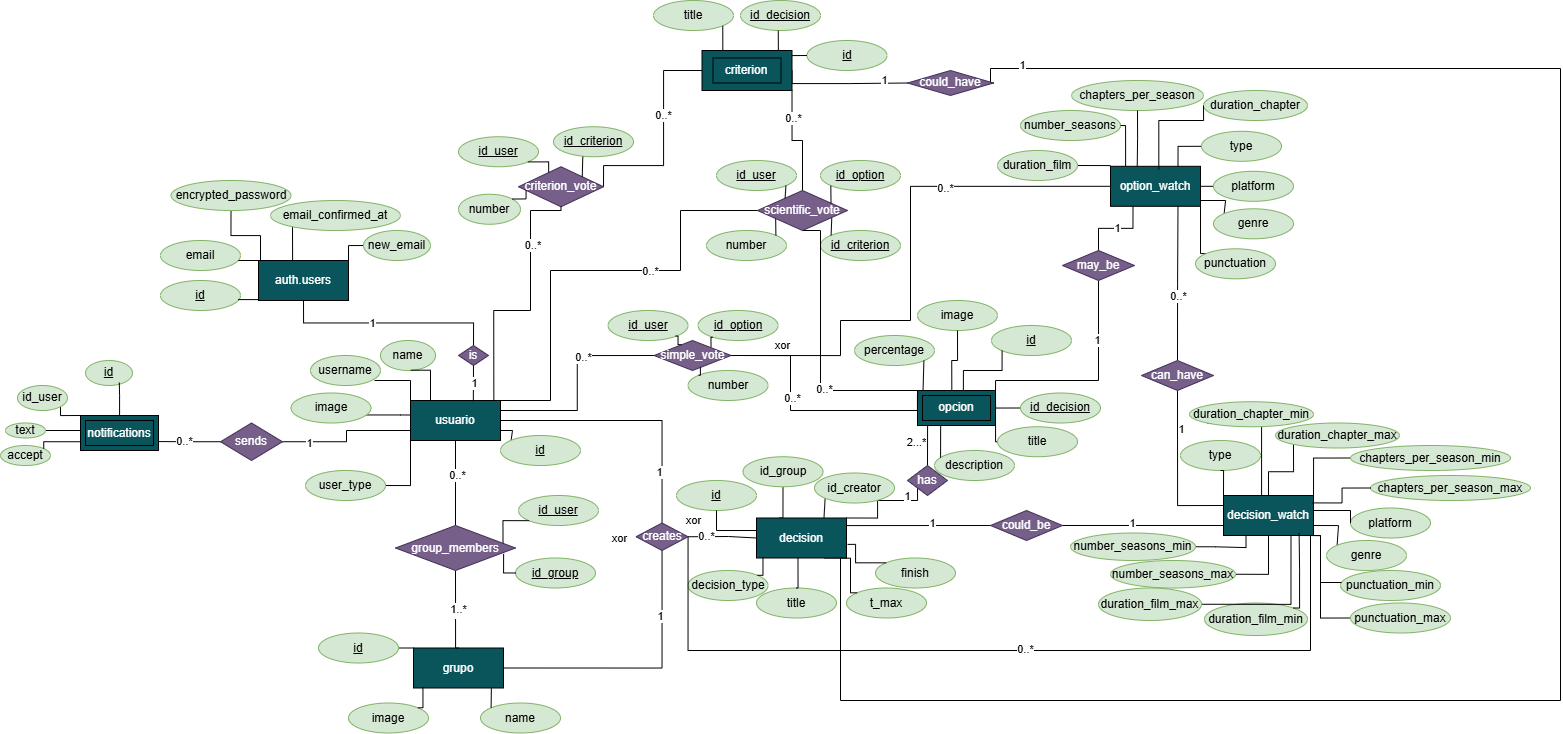
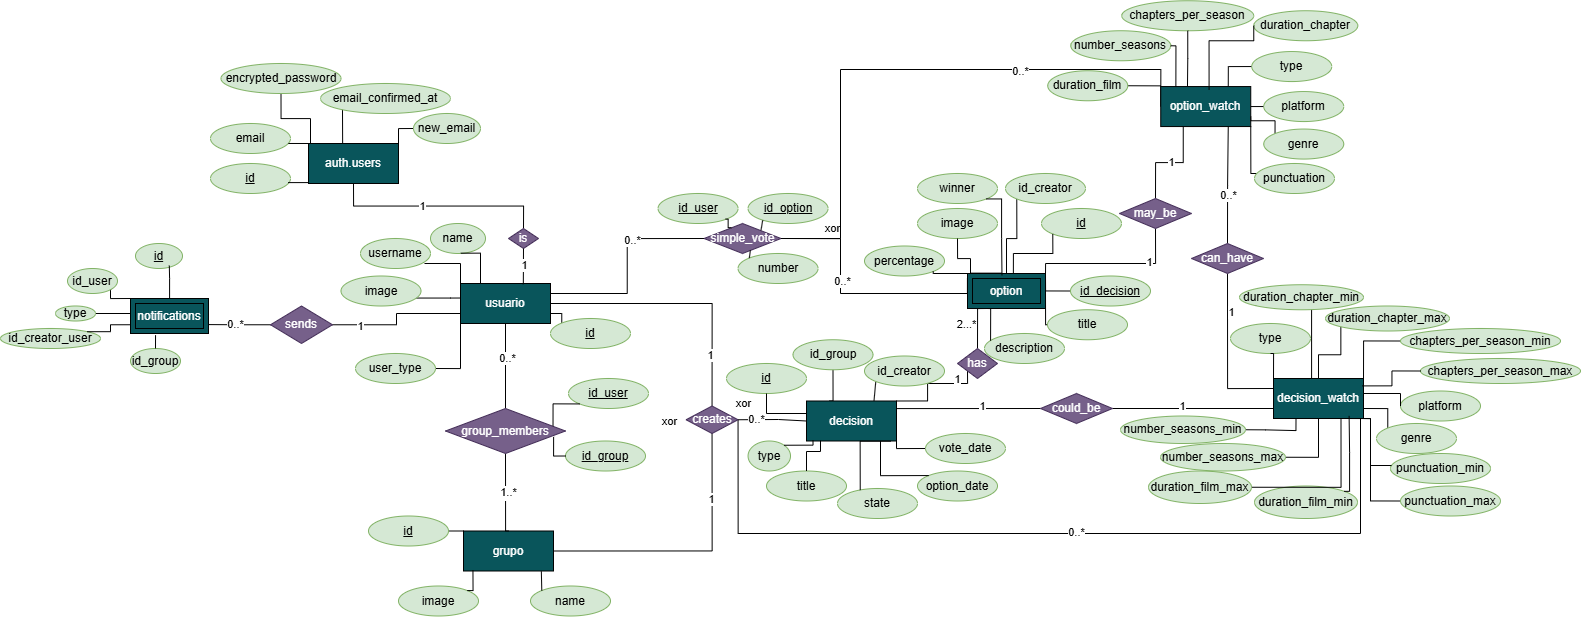
hasta diagrama de base de datos bien

diff --git a/capitulos/06_Diseno.tex b/capitulos/06_Diseno.tex
@@ -2,6 +2,7 @@
 
 \section{Arquitectura del sistema}
 
+\begin{comment}
 El proyecto no se basa en una única arquitectura tal y como podemos apreciar en la Figura~\ref{fig:diagramaarq}, sino en la combinación de varios estilos arquitectónicos. Como base, sigue una arquitectura cliente-servidor, donde el cliente está desarrollado en \textit{Flutter} y el servidor en \textit{Supabase}.  \\
 
 No obstante, \textit{Supabase} no se comporta como un servidor tradicional, sino que sigue un enfoque Backend as a Service (BaaS), proporcionando de forma integrada servicios como autenticación, base de datos, comunicación en tiempo real y ejecución de lógica mediante Edge Functions. \\
@@ -11,6 +12,17 @@ Asimismo, el uso de Edge Functions implica adoptar una arquitectura serverless, 
 Por otra parte, en el lado del cliente, se sigue una arquitectura a capas, disponiendo de capas de presentación, lógica y acceso a datos. \\
 
 Finalmente, dada la necesidad de actualizar en tiempo real la información relativa a grupos y votaciones, el sistema incorpora una arquitectura orientada a eventos, en la que los clientes reaccionan a los cambios producidos en el backend. \\
+\end{comment}
+
+El proyecto no se basa en un único estilo arquitectónico, como se observa en la Figura~\ref{fig:diagramaarq}, sino en la combinación de varios enfoques complementarios. A nivel general, sigue una arquitectura cliente-servidor, donde la aplicación desarrollada en \textit{Flutter} actúa como cliente y la plataforma \textit{Supabase} proporciona los servicios de backend. \\
+
+Aunque Supabase se percibe como una única plataforma desde el punto de vista del desarrollador, internamente el backend adopta un enfoque Backend as a Service (BaaS), delegando la gestión de distintos servicios especializados. Entre ellos se encuentran PostgreSQL para la persistencia de datos, Auth para la autenticación y gestión de usuarios, Storage para el almacenamiento de imágenes, Realtime para la sincronización de información en tiempo real y Edge Functions para la ejecución de lógica personalizada. \\
+
+Las Edge Functions permiten encapsular operaciones que requieren ejecutarse en el servidor, como tareas administrativas o lógica de negocio que no debe residir en el cliente. Estas funciones pueden activarse de dos formas: mediante peticiones HTTP realizadas por la aplicación cliente o mediante tareas programadas (\texttt{cron jobs}) configuradas en \textit{Supabase}. En el segundo caso, las funciones se ejecutan automáticamente en intervalos definidos para realizar operaciones periódicas, como la comprobación de fechas de finalización de votaciones. Por este motivo, las Edge Functions siguen un modelo de ejecución serverless, en el que la infraestructura y el escalado son gestionados automáticamente por \textit{Supabase}, sin necesidad de administrar servidores propios. \\
+
+En el lado cliente se sigue una arquitectura a capas, diferenciando la capa de presentación, encargada de la interfaz de usuario, la capa de lógica de aplicación, basada en Riverpod, responsable de la gestión del estado de forma reactiva y de la implementación de las reglas de negocio, y la capa de acceso a datos, encargada de la comunicación con los servicios de \textit{Supabase}. Riverpod permite desacoplar la lógica de la interfaz, facilitando una arquitectura reactiva en la que los cambios en el estado se propagan automáticamente a los componentes de la interfaz de usuario. Esta separación permite una clara división de responsabilidades y mejora la mantenibilidad y escalabilidad del código. \\
+
+Finalmente, el sistema incorpora una arquitectura orientada a eventos mediante el servicio Realtime de \textit{Supabase}. Gracias a este mecanismo, los clientes reciben notificaciones cuando se producen cambios relevantes en la base de datos, permitiendo actualizar automáticamente la información de grupos y votaciones sin necesidad de realizar consultas periódicas. \\
 
     \begin{figure}[ht]
         \centering
@@ -21,7 +33,7 @@ Finalmente, dada la necesidad de actualizar en tiempo real la información relat
 
 \section{API de la aplicación}
 
-La API sigue un diseño REST orientado a recursos. Las entidades principales del sistema (usuarios, grupos, decisiones, opciones, criterios y notificaciones) se exponen como endpoints, mientras que las relaciones intermedias (membresías a grupos, votos y notificaciones) se integran dentro de rutas jerárquicas que representan acciones del usuario. A continuación, se exponen los distintos endpoints. \\
+La API sigue un diseño REST orientado a recursos. Las entidades principales del sistema (usuarios, grupos, decisiones, opciones, \begin{comment}criterios\end{comment} y notificaciones) se exponen como endpoints, mientras que las relaciones intermedias (membresías a grupos, votos y notificaciones) se integran dentro de rutas jerárquicas que representan acciones del usuario. A continuación, se exponen los distintos endpoints. \\
 
 \textbf{\uline{Usuarios}}
 \begin{table}[H]
@@ -48,7 +60,7 @@ DELETE & /usuarios/\{id\}       & Eliminar usuario \\
 \textbf{Método} & \textbf{Ruta} & \textbf{Descripción} \\
 \midrule
 GET   & /usuarios/\{id\}/notificaciones & Obtener notificaciones del usuario \\
-PATCH & /notificaciones/\{id\}          & Actualizar estado (accept) \\
+DELETE & /notificaciones/\{id\}          & Eliminar una notificación \\
 \bottomrule
 \end{tabular}
 \caption{API de notificaciones}
@@ -119,6 +131,7 @@ DELETE & /opciones/\{id\}            & Eliminar opción \\
 \caption{API de opciones}
 \end{table}
 
+\begin{comment}
 \textbf{\uline{Criterios}}
 \begin{table}[H]
 \centering
@@ -135,6 +148,7 @@ DELETE & /criterios/\{id\}            & Eliminar criterio \\
 \end{tabular}
 \caption{API de criterios}
 \end{table}
+\end{comment}
 
 \textbf{\uline{Decision Watch}}
 \begin{table}[H]
@@ -173,26 +187,34 @@ GET  & /opciones/\{id\}/watch & Obtener configuración option\_watch \\
 \midrule
 POST & /decisiones/\{id\}/votos/simple      & Crear voto simple \\
 GET  & /decisiones/\{id\}/votos/simple      & Obtener votos simples \\
-
-POST & /decisiones/\{id\}/votos/cientifico  & Crear voto científico \\
-GET  & /decisiones/\{id\}/votos/cientifico  & Obtener votos científicos \\
-
-POST & /decisiones/\{dId\}/criterios/\{cId\}/votos & Crear voto por criterio \\
-GET  & /decisiones/\{dId\}/criterios/\{cId\}/votos & Obtener votos por criterio \\
 \bottomrule
 \end{tabular}
 \caption{API de votos}
 \end{table}
 
+\begin{comment}
+POST & /decisiones/\{id\}/votos/cientifico  & Crear voto científico \\
+GET  & /decisiones/\{id\}/votos/cientifico  & Obtener votos científicos \\
+
+POST & /decisiones/\{dId\}/criterios/\{cId\}/votos & Crear voto por criterio \\
+GET  & /decisiones/\{dId\}/criterios/\{cId\}/votos & Obtener votos por criterio \\
+\end{comment}
+
 \section{Diagrama de base de datos}
 
 En la Figura~\ref{fig:diagramaer} podemos ver el diagrama entidad-relación de la base de datos. Como puede observarse, se ha optado por utilizar nomenclatura en inglés para la definición de las entidades y sus atributos, salvo en el nombre de las tablas \textit{usuario}, \textit{grupo} y \textit{opcion}. Esto es debido a que en supabase las palabras \textit{user}, \textit{group} y \textit{option} están reservadas y podrían ocasionar conflictos o problemas en la implementación. \\
 
-El sistema estará formado por doce tablas: \textit{auth.users}, \textit{usuario}, \textit{grupo}, \textit{decision}, \textit{opcion}, \textit{simple\_vote}, \textit{group\_members}, \textit{scientific\_vote}, \textit{criterion}, \textit{criterion\_vote}, \textit{decision\_watch} y \textit{option\_watch}. La tabla \textit{auth.user} es proporcionada por defecto por \textit{Supabase} y se utiliza para gestionar de manera segura la información personal de los usuarios. Aunque esta tabla cuenta con un número elevado de atributos, en el diagrama únicamente se representan los que se usarán en el desarrollo. \\
+\begin{comment}El sistema estará formado por nueve tablas: \textit{auth.users}, \textit{usuario}, \textit{grupo}, \textit{decision}, \textit{opcion}, \textit{simple\_vote}, \textit{group\_members}, \textit{scientific\_vote}, \textit{criterion}, \textit{criterion\_vote},  \textit{decision\_watch} y \textit{option\_watch}. La tabla \textit{auth.user} es proporcionada por defecto por \textit{Supabase} y se utiliza para gestionar de manera segura la información personal de los usuarios. Aunque esta tabla cuenta con un número elevado de atributos, en el diagrama únicamente se representan los que se usarán en el desarrollo. \\\end{comment}
 
-Por su parte, las tablas \textit{simple\_vote}, \textit{group\_members}, \textit{criterion\_vote} y \textit{scientific\_vote} actuan como tablas intermedias que permiten modelar relaciones de tipo muchos a muchos, garantizando la unicidad de las asociaciones. En concreto, \textit{simple\_vote} relaciona los usuarios con las opciones de una decisión, \textit{group\_members} establece la relación entre usuarios y grupos y \textit{criterion} y \textit{scientific\_vote} se utiliza en las votaciones de tipo científico para puntuar a los criterios y las opciones sobre cada criterio respectivamente. 
+El sistema estará formado por diez tablas: \textit{auth.users}, \textit{usuario}, \textit{grupo}, \textit{notification} \textit{decision}, \textit{option}, \textit{simple\_vote}, \textit{group\_members}, \textit{decision\_watch} y \textit{option\_watch}. La tabla \textit{auth.user} es proporcionada por defecto por \textit{Supabase} y se utiliza para gestionar de manera segura la información personal de los usuarios. Aunque esta tabla cuenta con un número elevado de atributos, en el diagrama únicamente se representan los que se usarán en el desarrollo. \\
 
-En las relaciones exitentes entre las tablas, cabe destacar que las tablas \textit{opcion} y \textit{criterion} son entidades debiles de \textit{decision}. Asimismo, \textit{decision\_watch} y \textit{option\_watch} heredan de \textit{decision} y \textit{opcion} respectivamente. \\
+\begin{comment}Por su parte, las tablas \textit{simple\_vote} y \textit{group\_members} \textit{criterion\_vote} y \textit{scientific\_vote}  actuan como tablas intermedias que permiten modelar relaciones de tipo muchos a muchos, garantizando la unicidad de las asociaciones. En concreto, \textit{simple\_vote} relaciona los usuarios con las opciones de una decisión y \textit{group\_members} establece la relación entre usuarios y grupos.  y \textit{criterion} y \textit{scientific\_vote} se utiliza en las votaciones de tipo científico para puntuar a los criterios y las opciones sobre cada criterio respectivamente. \end{comment}
+
+Por su parte, las tablas \textit{simple\_vote} y \textit{group\_members} actuan como tablas intermedias que permiten modelar relaciones de tipo muchos a muchos, garantizando la unicidad de las asociaciones. En concreto, \textit{simple\_vote} relaciona los usuarios con las opciones de una decisión y \textit{group\_members} establece la relación entre usuarios y grupos. \\ 
+
+\begin{comment}En las relaciones exitentes entre tablas, cabe destacar que la tabla \textit{opcion} y \textit{criterion}  es una entidad debil de \textit{decision}. Asimismo, \textit{decision\_watch} y \textit{option\_watch} heredan de \textit{decision} y \textit{opcion} respectivamente. \\\end{comment}
+
+En las relaciones exitentes entre tablas, cabe destacar que la tabla \textit{opcion} es una entidad debil de \textit{decision}. Asimismo, \textit{decision\_watch} y \textit{option\_watch} heredan de \textit{decision} y \textit{opcion} respectivamente. \\
 
 \begin{figure}[ht]
     \centering
@@ -210,7 +232,7 @@ A continuación, se muestran en detalle los atributos de cada tabla, especifican
         \toprule
         \multicolumn{5}{c}{\textbf{auth.users}} \\
         \midrule
-        \textbf{Atributo} & \textbf{Tipo} & \textbf{Valor defecto} & \textbf{Unique} & \textbf{Nullable} \\
+        \textbf{Atributo} & \textbf{Tipo} & \textbf{Valor defecto} & \textbf{U} & \textbf{N} \\
         \midrule
         id & UUID & gen\_random\_uuid() & \tick  & \cross \\
         email & TEXT & -  & \tick  & \cross  \\
@@ -233,7 +255,7 @@ A continuación, se muestran en detalle los atributos de cada tabla, especifican
         \toprule
         \multicolumn{5}{c}{\textbf{usuario}} \\
         \midrule
-        \textbf{Atributo} & \textbf{Tipo} & \textbf{Valor defecto} & \textbf{Unique} & \textbf{Nullable} \\
+        \textbf{Atributo} & \textbf{Tipo} & \textbf{Valor defecto} & \textbf{U} & \textbf{N} \\
         \midrule
         id & UUID & gen\_random\_uuid() & \tick  & \cross \\
         username & TEXT & -  & \tick  & \cross  \\
@@ -257,7 +279,7 @@ A continuación, se muestran en detalle los atributos de cada tabla, especifican
         \toprule
         \multicolumn{5}{c}{\textbf{grupo}} \\
         \midrule
-        \textbf{Atributo} & \textbf{Tipo} & \textbf{Valor defecto} & \textbf{Unique} & \textbf{Nullable} \\
+        \textbf{Atributo} & \textbf{Tipo} & \textbf{Valor defecto} & \textbf{U} & \textbf{N} \\
         \midrule
         id & UUID & gen\_random\_uuid() & \tick  & \cross \\
         name & TEXT  & - & \cross & \cross \\
@@ -278,7 +300,7 @@ A continuación, se muestran en detalle los atributos de cada tabla, especifican
         \toprule
         \multicolumn{5}{c}{\textbf{group\_members}} \\
         \midrule
-        \textbf{Atributo} & \textbf{Tipo} & \textbf{Valor defecto} & \textbf{Unique} & \textbf{Nullable} \\
+        \textbf{Atributo} & \textbf{Tipo} & \textbf{Valor defecto} & \textbf{U} & \textbf{N} \\
         \midrule
         id\_group & UUID & gen\_random\_uuid() & \cross  & \cross \\
         id\_user & UUID & gen\_random\_uuid() & \cross  & \cross \\
@@ -293,6 +315,32 @@ A continuación, se muestran en detalle los atributos de cada tabla, especifican
     \caption{Definición de la tabla \textit{group\_members}}
 \end{table}
 
+%notifications
+\begin{table}[H]
+    \centering
+    \begin{tabular}{l l c c c}
+        \toprule
+        \multicolumn{5}{c}{\textbf{notifications}} \\
+        \midrule
+        \textbf{Atributo} & \textbf{Tipo} & \textbf{Valor defecto} & \textbf{U} & \textbf{N} \\
+        \midrule
+        id & UUID & gen\_random\_uuid() & \tick  & \cross \\
+        id\_user & UUID & gen\_random\_uuid() & \cross  & \cross \\
+        id\_creator\_user & UUID & gen\_random\_uuid() & \cross  & \tick \\
+        id\_group & UUID & gen\_random\_uuid() & \cross  & \cross \\
+        type & notification\_type & - & \cross & \cross \\
+        \midrule
+        \multicolumn{5}{l}{\textbf{Claves}} \\
+        \midrule
+        PK                & \multicolumn{4}{l}{id} \\
+        FK              & \multicolumn{4}{l}{id\_group $\rightarrow$ grupo(id)} \\
+        FK              & \multicolumn{4}{l}{id\_user $\rightarrow$ auth.users(id)} \\
+        FK              & \multicolumn{4}{l}{id\_creator $\rightarrow$ auth.users(id)} \\
+        \bottomrule
+    \end{tabular}
+    \caption{Definición de la tabla \textit{notifications}}
+\end{table}
+
 %decision
 \begin{table}[H]
     \centering
@@ -300,15 +348,16 @@ A continuación, se muestran en detalle los atributos de cada tabla, especifican
         \toprule
         \multicolumn{5}{c}{\textbf{decision}} \\
         \midrule
-        \textbf{Atributo} & \textbf{Tipo} & \textbf{Valor defecto} & \textbf{Unique} & \textbf{Nullable} \\
+        \textbf{Atributo} & \textbf{Tipo} & \textbf{Valor defecto} & \textbf{U} & \textbf{N} \\
         \midrule
         id & UUID & gen\_random\_uuid() & \tick  & \cross \\
         id\_creator & UUID & gen\_random\_uuid() & \cross  & \cross \\
         id\_group & UUID & gen\_random\_uuid() & \cross & \tick \\
         title & TEXT  & - & \cross & \cross \\
-        t\_max & TIMESTAMP & - & \cross & \tick \\
-        finish & BOOLEAN & false & \cross & \cross \\
-        decison\_type & decision\_type & vote & \cross & \cross \\ 
+        state & decision\_state & - & \cross & \cross \\
+        options\_date & TIMESTAMPTZ & NULL & \cross & \tick \\
+        vote\_date & TIMESTAMPTZ & NULL & \cross & \tick \\
+        type & decision\_type & vote & \cross & \cross \\ 
         \midrule
         \multicolumn{5}{l}{\textbf{Claves}} \\
         \midrule
@@ -326,7 +375,7 @@ A continuación, se muestran en detalle los atributos de cada tabla, especifican
         \toprule
         \multicolumn{5}{c}{\textbf{decision\_watch}} \\
         \midrule
-        \textbf{Atributo} & \textbf{Tipo} & \textbf{Valor defecto} & \textbf{Unique} & \textbf{Nullable} \\
+        \textbf{Atributo} & \textbf{Tipo} & \textbf{Valor defecto} & \textbf{U} & \textbf{N} \\
         \midrule
         type & watch\_type & film & \cross  & \cross \\
         platform & TEXT[] & - & \cross & \tick \\
@@ -347,21 +396,23 @@ A continuación, se muestran en detalle los atributos de cada tabla, especifican
     \caption{Definición de la tabla \textit{decision\_watch}}
 \end{table}
 
-%opcion
+%option
 \begin{table}[H]
     \centering
     \begin{tabular}{l l c c c}
         \toprule
-        \multicolumn{5}{c}{\textbf{opcion}} \\
+        \multicolumn{5}{c}{\textbf{option}} \\
         \midrule
-        \textbf{Atributo} & \textbf{Tipo} & \textbf{Valor defecto} & \textbf{Unique} & \textbf{Nullable} \\
+        \textbf{Atributo} & \textbf{Tipo} & \textbf{Valor defecto} & \textbf{U} & \textbf{N} \\
         \midrule
         id & UUID & gen\_random\_uuid() & \tick  & \cross \\
         id\_decision & UUID & gen\_random\_uuid() & \cross  & \cross \\
+        id\_creator & UUID & gen\_random\_uuid() & \cross  & \cross \\
         title & TEXT  & - & \cross & \cross \\
         description & TEXT & - & \cross & \tick \\
         image & TEXT & - & \cross & \tick \\
-        percentage & INT & - & \cross & \cross \\
+        percentage & FLOAT8 & - & \cross & \cross \\
+        winner & BOOLEAN & false & \cross & \tick \\
         \midrule
         \multicolumn{5}{l}{\textbf{Claves}} \\
         \midrule
@@ -379,7 +430,7 @@ A continuación, se muestran en detalle los atributos de cada tabla, especifican
         \toprule
         \multicolumn{5}{c}{\textbf{option\_watch}} \\
         \midrule
-        \textbf{Atributo} & \textbf{Tipo} & \textbf{Valor defecto} & \textbf{Unique} & \textbf{Nullable} \\
+        \textbf{Atributo} & \textbf{Tipo} & \textbf{Valor defecto} & \textbf{U} & \textbf{N} \\
         \midrule
         type & watch\_type & film & \cross  & \cross \\
         platform & TEXT[] & - & \cross & \tick \\
@@ -401,7 +452,7 @@ A continuación, se muestran en detalle los atributos de cada tabla, especifican
         \toprule
         \multicolumn{5}{c}{\textbf{simple\_vote}} \\
         \midrule
-        \textbf{Atributo} & \textbf{Tipo} & \textbf{Valor defecto} & \textbf{Unique} & \textbf{Nullable} \\
+        \textbf{Atributo} & \textbf{Tipo} & \textbf{Valor defecto} & \textbf{U} & \textbf{N} \\
         \midrule
         id\_user & UUID & gen\_random\_uuid() & \cross  & \cross \\
         id\_option & UUID & gen\_random\_uuid() & \cross  & \cross \\
@@ -417,6 +468,7 @@ A continuación, se muestran en detalle los atributos de cada tabla, especifican
     \caption{Definición de la tabla \textit{simple\_vote}}
 \end{table}
 
+\begin{comment}
 %criterion
 \begin{table}[H]
     \centering
@@ -424,7 +476,7 @@ A continuación, se muestran en detalle los atributos de cada tabla, especifican
         \toprule
         \multicolumn{5}{c}{\textbf{criterion\_vote}} \\
         \midrule
-        \textbf{Atributo} & \textbf{Tipo} & \textbf{Valor defecto} & \textbf{Unique} & \textbf{Nullable} \\
+        \textbf{Atributo} & \textbf{Tipo} & \textbf{Valor defecto} & \textbf{U} & \textbf{N} \\
         \midrule
         id & UUID & gen\_random\_uuid() & \tick  & \cross \\
         id\_decision & UUID & gen\_random\_uuid() & \tick  & \cross \\
@@ -447,7 +499,7 @@ A continuación, se muestran en detalle los atributos de cada tabla, especifican
         \toprule
         \multicolumn{5}{c}{\textbf{criterion\_vote}} \\
         \midrule
-        \textbf{Atributo} & \textbf{Tipo} & \textbf{Valor defecto} & \textbf{Unique} & \textbf{Nullable} \\
+        \textbf{Atributo} & \textbf{Tipo} & \textbf{Valor defecto} & \textbf{U} & \textbf{N} \\
         \midrule
         id\_user & UUID & gen\_random\_uuid() & \cross  & \cross \\
         id\_criterion & UUID & gen\_random\_uuid() & \cross  & \cross \\
@@ -470,7 +522,7 @@ A continuación, se muestran en detalle los atributos de cada tabla, especifican
         \toprule
         \multicolumn{5}{c}{\textbf{scientific\_vote}} \\
         \midrule
-        \textbf{Atributo} & \textbf{Tipo} & \textbf{Valor defecto} & \textbf{Unique} & \textbf{Nullable} \\
+        \textbf{Atributo} & \textbf{Tipo} & \textbf{Valor defecto} & \textbf{U} & \textbf{N} \\
         \midrule
         id\_user & UUID & gen\_random\_uuid() & \cross  & \cross \\
         id\_option & UUID & gen\_random\_uuid() & \cross  & \cross \\
@@ -486,12 +538,13 @@ A continuación, se muestran en detalle los atributos de cada tabla, especifican
     \end{tabular}
     \caption{Definición de la tabla \textit{scientific\_vote}}
 \end{table}
+\end{comment}
 
 Se puntualizan a continuación algunos atributos de las tablas: \\
 
-En la tabla \textit{auth\_user} el atributo \textit{new\_email} será usado para hacer el cambio de email asociado a una cuenta, por tanto, para mantener la unicidad, en \textit{new\_email} no podrá insertarse un valor que ya existe en \textit{email}. En \textit{new\_email} si podrá haber valores repetidos, ya que finalmente solo se trasladará a \textit{email} en la primera cuenta que confirme el cambio. \\
+En la tabla \textit{auth\_user} el atributo \textit{new\_email} será usado para hacer el cambio de email asociado a una cuenta. Por tanto, para mantener la unicidad, en \textit{new\_email} no podrá insertarse un valor que ya existe en \textit{email}. En \textit{new\_email} sí podrá haber valores repetidos, ya que finalmente solo se trasladará a \textit{email} en la primera cuenta que confirme el cambio. \\
 
-Todos los atributos \textit{percentage} de la tabla \textit{opcion} relativos a una misma \textit{decision} deben sumar 100. 
+Todos los atributos \textit{percentage} de la tabla \textit{opcion} relativos a una misma \textit{decision} deben sumar 100 o ser nulos. 
 
 \section{Diagrama de clases}
 